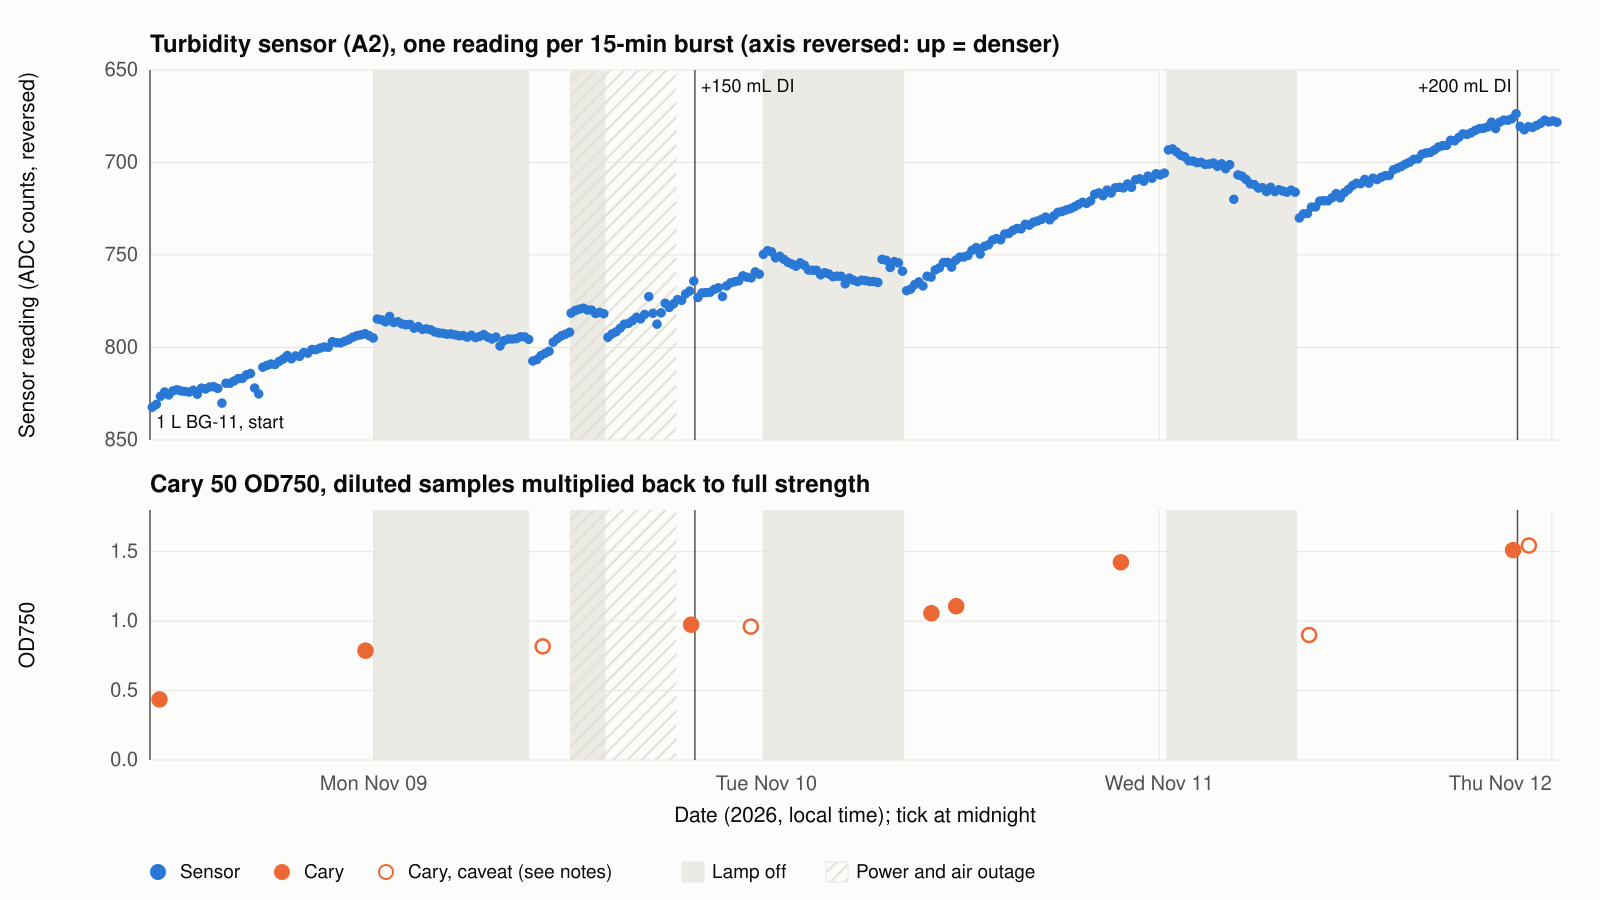
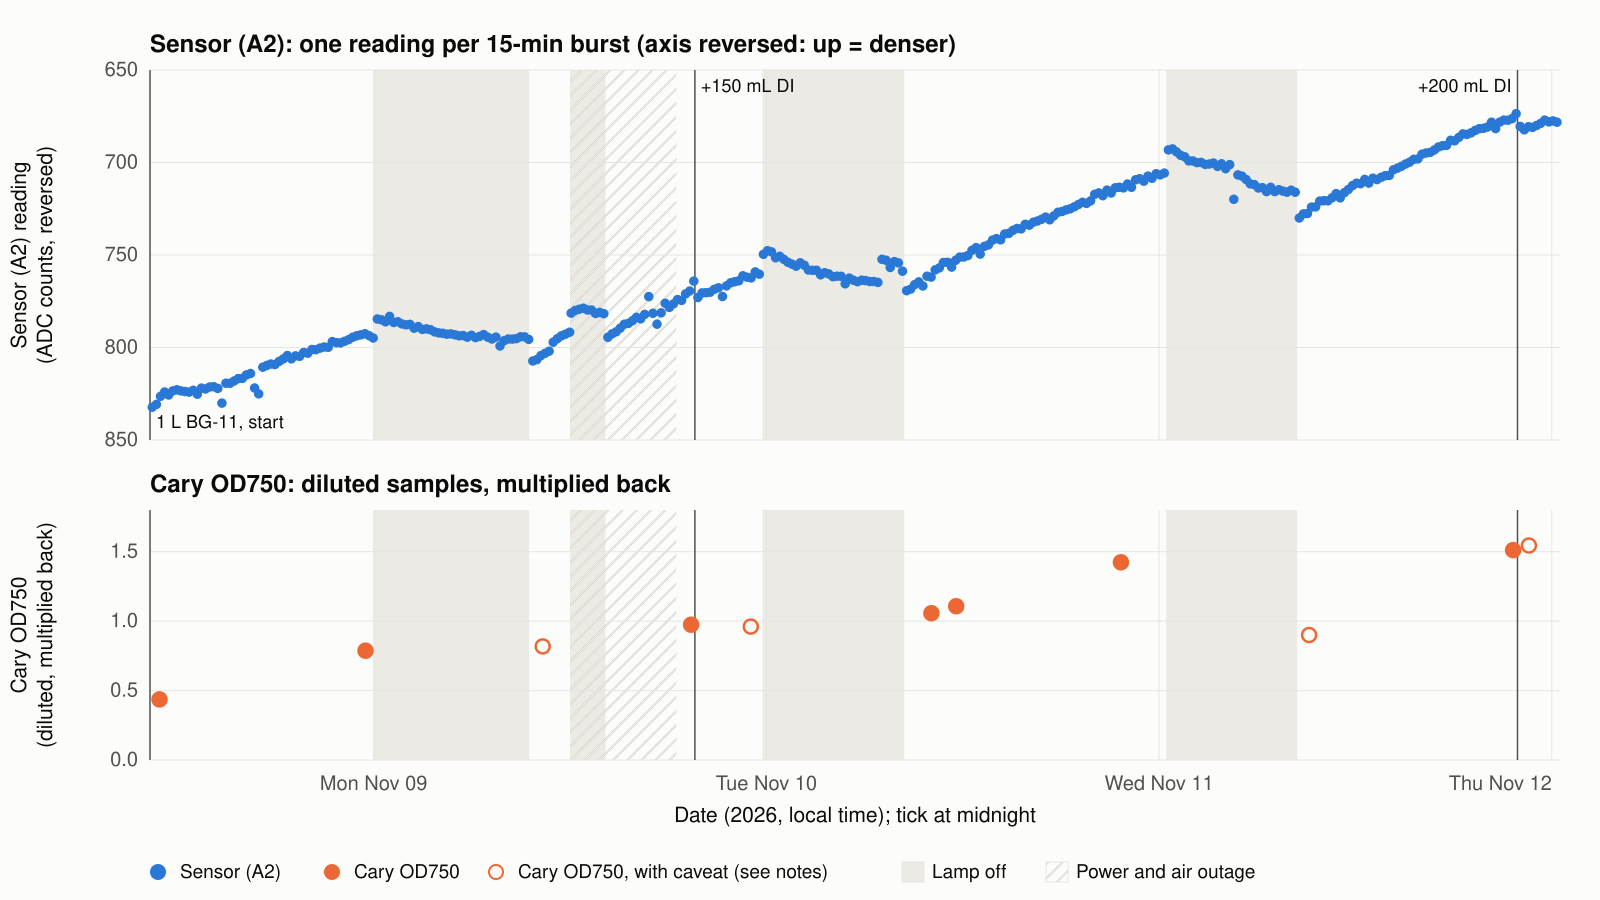
docs(bench): use the same labels in both growth test figures
The series are Sensor (A2) and Cary OD750 everywhere, with one wording
for the caveat and one for each axis, and the time figure's axis
labels split onto two lines so they no longer overlap.

diff --git a/data/bench/2026-11-05/figures/agreement_plot.py b/data/bench/2026-11-05/figures/agreement_plot.py
@@ -1,5 +1,5 @@
 #!/usr/bin/env python3
-"""Cary OD750 against the sensor reading at the same time, one point per Cary sample. Standard library only."""
+"""Cary OD750 against the Sensor (A2) reading at the same time, one point per Cary sample. Standard library only."""
 import csv
 import datetime
 import math
@@ -60,18 +60,18 @@ for t, c, od, rmin, rmax, note in pts:
     label = t.strftime("%a %H:%M")
     dx, dy, anchor = OFFSETS.get(label, (14, 6, "start"))
     svg.append(f'<text x="{x(c) + dx:.1f}" y="{y(od) + dy:.1f}" font-size="16" fill="{INK2}" text-anchor="{anchor}">{label}</text>')
-svg.append(f'<text x="{L}" y="{T - 30}" font-size="24" font-weight="bold" fill="{INK}">Cary OD750 against the turbidity sensor at the same time (growth test, Nov 8–12)</text>')
+svg.append(f'<text x="{L}" y="{T - 30}" font-size="24" font-weight="bold" fill="{INK}">Cary OD750 against Sensor (A2) at the same time (growth test, Nov 8–12)</text>')
 svg.append(f'<text x="34" y="{(T + B) / 2:.1f}" font-size="21" fill="{INK}" text-anchor="middle" transform="rotate(-90 34 {(T + B) / 2:.1f})">Cary OD750 (diluted, multiplied back)</text>')
-svg.append(f'<text x="{(L + W - R) / 2:.1f}" y="{B + 66}" font-size="21" fill="{INK}" text-anchor="middle">Sensor reading at the same time (ADC counts, mean of bursts within 15 min); clearer ← → denser</text>')
+svg.append(f'<text x="{(L + W - R) / 2:.1f}" y="{B + 66}" font-size="21" fill="{INK}" text-anchor="middle">Sensor (A2) reading at the same time (ADC counts, mean of bursts within 15 min); clearer ← → denser</text>')
 ly = H - 30
-items = [(ORANGE, ORANGE, "Cary sample"), (SURF, ORANGE, "Cary sample with a caveat (see notes)")]
+items = [(ORANGE, ORANGE, "Cary OD750"), (SURF, ORANGE, "Cary OD750, with caveat (see notes)")]
 lx = L
 for fill, stroke, label in items:
     svg.append(f'<circle cx="{lx + 8}" cy="{ly - 6}" r="8" fill="{fill}" stroke="{stroke}" stroke-width="2.5"/>')
     svg.append(f'<text x="{lx + 26}" y="{ly}" font-size="19" fill="{INK}">{label}</text>')
     lx += 26 + len(label) * 10 + 30
 svg.append(f'<line x1="{lx}" x2="{lx + 30}" y1="{ly - 6}" y2="{ly - 6}" stroke="{BLUE}" stroke-width="2"/>')
-svg.append(f'<text x="{lx + 40}" y="{ly}" font-size="19" fill="{INK}">Fit to the {n} solid points, within {min(resid) * 100:+.0f}% to {max(resid) * 100:+.0f}%</text>')
+svg.append(f'<text x="{lx + 40}" y="{ly}" font-size="19" fill="{INK}">Fit to the {n} Cary OD750 points without a caveat, within {min(resid) * 100:+.0f}% to {max(resid) * 100:+.0f}%</text>')
 svg.append("</svg>")
 (HERE / "agreement.svg").write_text("\n".join(svg))
 print(f"fit OD = {k:.3f} * (-ln(counts/{CLEAR}))^{p:.3f}; residuals {min(resid) * 100:+.1f}% to {max(resid) * 100:+.1f}%")

diff --git a/data/bench/2026-11-05/figures/growth_plot.py b/data/bench/2026-11-05/figures/growth_plot.py
@@ -1,5 +1,5 @@
 #!/usr/bin/env python3
-"""Growth test figure: A2 attenuation per burst (top) and Cary OD750 (bottom), shared time axis. Standard library only."""
+"""Growth test figure: Sensor (A2) reading per burst (top) and Cary OD750 (bottom), shared time axis. Standard library only."""
 import csv
 import datetime
 import math
@@ -110,16 +110,17 @@ for when, reads, note in CARY:
     hollow = bool(note)
     svg.append(f'<circle cx="{xx:.1f}" cy="{yo(mean):.1f}" r="7" fill="{SURF if hollow else ORANGE}" stroke="{ORANGE}" stroke-width="2.5"/>')
 # axes titles and panel titles
-svg.append(f'<text x="{L}" y="{P1[0] - 18}" font-size="24" font-weight="bold" fill="{INK}">Turbidity sensor (A2), one reading per 15-min burst (axis reversed: up = denser)</text>')
-svg.append(f'<text x="{L}" y="{P2[0] - 18}" font-size="24" font-weight="bold" fill="{INK}">Cary 50 OD750, diluted samples multiplied back to full strength</text>')
-for (top, bottom), label in ((P1, "Sensor reading (ADC counts, reversed)"), (P2, "OD750")):
+svg.append(f'<text x="{L}" y="{P1[0] - 18}" font-size="24" font-weight="bold" fill="{INK}">Sensor (A2): one reading per 15-min burst (axis reversed: up = denser)</text>')
+svg.append(f'<text x="{L}" y="{P2[0] - 18}" font-size="24" font-weight="bold" fill="{INK}">Cary OD750: diluted samples, multiplied back</text>')
+for (top, bottom), lines in ((P1, ("Sensor (A2) reading", "(ADC counts, reversed)")), (P2, ("Cary OD750", "(diluted, multiplied back)"))):
     cy = (top + bottom) / 2
-    svg.append(f'<text x="34" y="{cy:.1f}" font-size="21" fill="{INK}" text-anchor="middle" transform="rotate(-90 34 {cy:.1f})">{label}</text>')
+    for lx, line in zip((26, 52), lines):
+        svg.append(f'<text x="{lx}" y="{cy:.1f}" font-size="21" fill="{INK}" text-anchor="middle" transform="rotate(-90 {lx} {cy:.1f})">{line}</text>')
 svg.append(f'<text x="{(L + W - R) / 2:.1f}" y="{P2[1] + 62}" font-size="21" fill="{INK}" text-anchor="middle">Date (2026, local time); tick at midnight</text>')
 # legend row
 ly = H - 22
-items = [("dot", BLUE, BLUE, "Sensor"), ("dot", ORANGE, ORANGE, "Cary"),
-         ("dot", SURF, ORANGE, "Cary, caveat (see notes)"), ("rect", SHADE, None, "Lamp off"), ("hatch", None, None, "Power and air outage")]
+items = [("dot", BLUE, BLUE, "Sensor (A2)"), ("dot", ORANGE, ORANGE, "Cary OD750"),
+         ("dot", SURF, ORANGE, "Cary OD750, with caveat (see notes)"), ("rect", SHADE, None, "Lamp off"), ("hatch", None, None, "Power and air outage")]
 lx = L
 for kind, fill, stroke, label in items:
     if kind == "dot":
